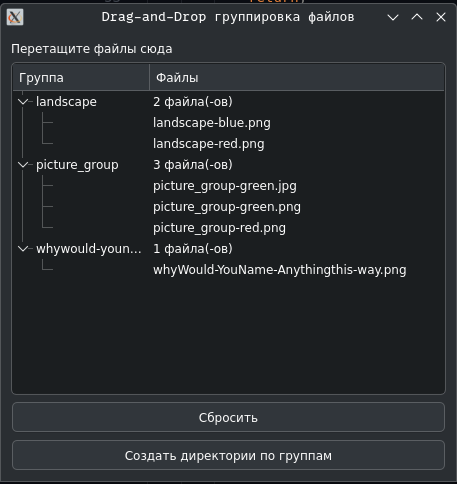
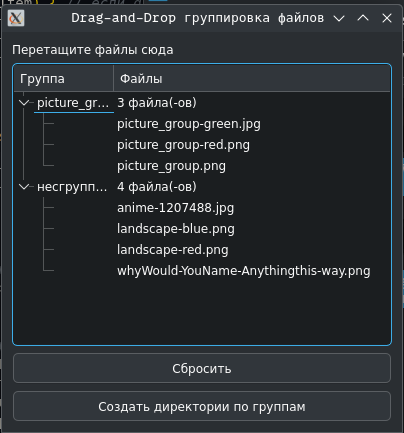
обновлён способ сортировки, теперь группы создаются только при наличии базового файла и группируют все файлы с постфиксом и соотстветствующим б азовому файлу именем до постфикса. добавлена группа несгруппировано, куда добавляются файлы без разделителя, группы, содержащие один файл и группы не содерж

Changed region(s): [[0.0, 0.0, 1.0, 1.0]]

diff --git a/main.cpp b/main.cpp
@@ -55,27 +55,51 @@ protected:
 
         // группировка файлов по имени исключая постфикс
         std::map<std::string, std::set<std::string>> groups;
+        std::set<std::string> ungroupedFiles;
+
         for (const QUrl &url : urls) {
             QString filePath = url.toLocalFile();
             QString fileName = QFileInfo(filePath).fileName();
             std::string fileNameStr = fileName.toStdString();
 
-            size_t pos = fileNameStr.find_last_of('-');
+            size_t pos = fileNameStr.find_last_of("-");
+            std::string baseName;
             if (pos != std::string::npos) {
-                std::string baseName = fileNameStr.substr(0, pos);
-                for (char &c : baseName) { c = std::tolower(c); }
-                groups[baseName].insert(fileNameStr);
+                baseName = fileNameStr.substr(0, pos);
             } else {
-                std::string baseName = fileNameStr;
-                for (char &c : baseName) { c = std::tolower(c); }
-                groups[baseName].insert(fileNameStr);
+                baseName = fileNameStr.substr(0, fileNameStr.find_last_of('.'));
             }
+
+            for (char &c : baseName) {
+                c = std::tolower(static_cast<unsigned char>(c));
+            }
+            groups[baseName].insert(fileNameStr);
         }
 
         // обновление дерева
         for (const auto &group : groups) {
             std::string groupName = group.first;
             const std::set<std::string>& files = group.second;
+
+            bool hasBaseFile = false;
+            for (const std::string &file : files) {
+                if (file == groupName + ".jpg" || file == groupName + ".jpeg" || file == groupName + ".png") {
+                    hasBaseFile = true;
+                    break;
+                }
+            }
+
+            // если нет базового файла - несгруппировано
+            if (!hasBaseFile) {
+                ungroupedFiles.insert(files.begin(), files.end());
+                continue;
+            }
+
+            // если один файл или нет разделителя - несгруппировано
+            if (files.size() == 1 || groupName == *files.begin()) {
+                ungroupedFiles.insert(*files.begin());
+                continue;
+            }
 
             QTreeWidgetItem *groupItem = findGroupItem(QString::fromStdString(groupName));
             if (!groupItem) { // если groupItem == nullptr , создаётся элемент группы
@@ -94,6 +118,26 @@ protected:
 
             // обновление количества файлов в группе
             groupItem->setText(1, QString::number(groupItem->childCount()) + " файла(-ов)");
+        }
+
+        // группа несгруппировано
+        if (!ungroupedFiles.empty()) {
+            QTreeWidgetItem *ungroupedItem = findGroupItem("несгруппировано");
+            if (!ungroupedItem) {
+                ungroupedItem = new QTreeWidgetItem(treeWidget);
+                ungroupedItem->setText(0, "несгруппировано");
+                ungroupedItem->setText(1, QString::number(ungroupedFiles.size()) + " файла(-ов)");
+            }
+
+            for (const std::string &file : ungroupedFiles) {
+                if (!isFileAlreadyAdded(ungroupedItem, QString::fromStdString(file))) {
+                    QTreeWidgetItem *fileItem = new QTreeWidgetItem(ungroupedItem);
+                    fileItem->setText(0, "");
+                    fileItem->setText(1, QString::fromStdString(file));
+                }
+            }
+
+            ungroupedItem->setText(1, QString::number(ungroupedItem->childCount()) + " файла(-ов)");
         }
     }
 
